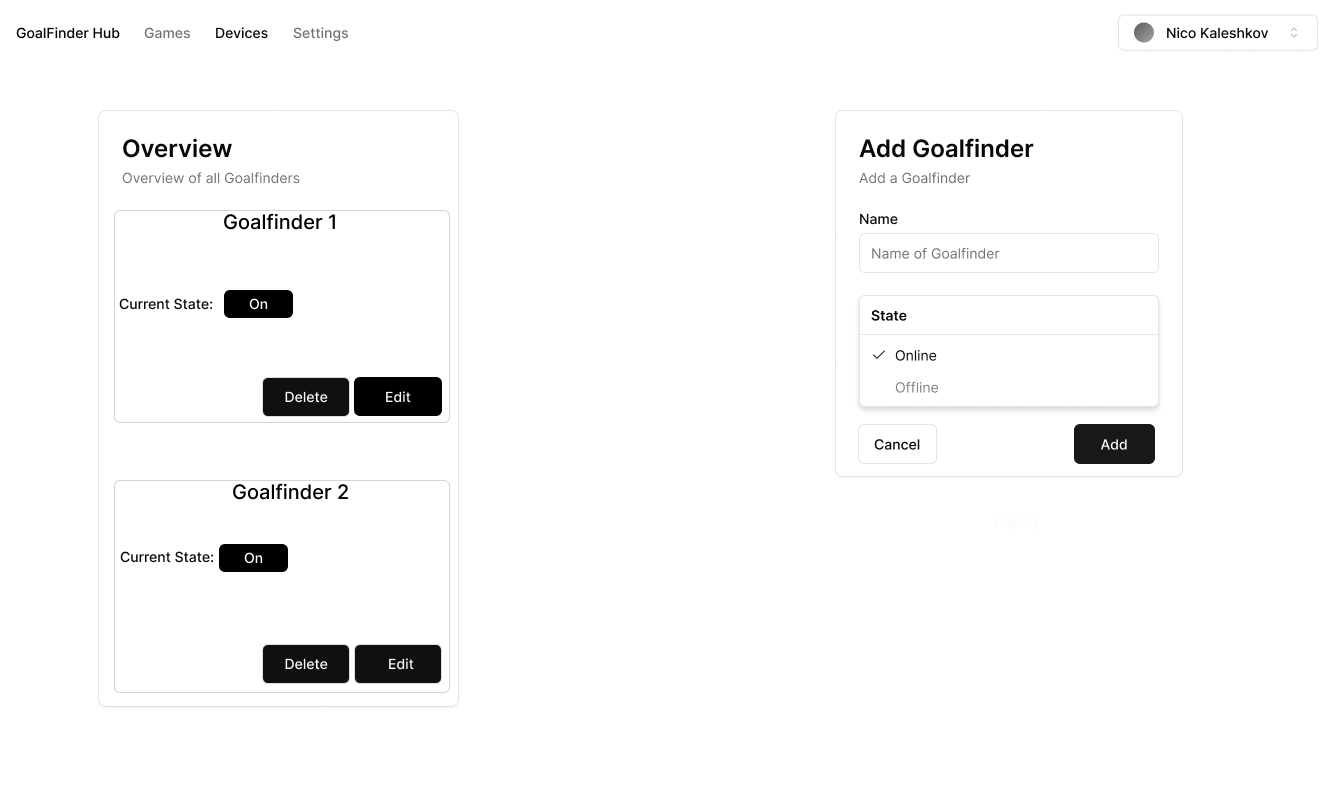
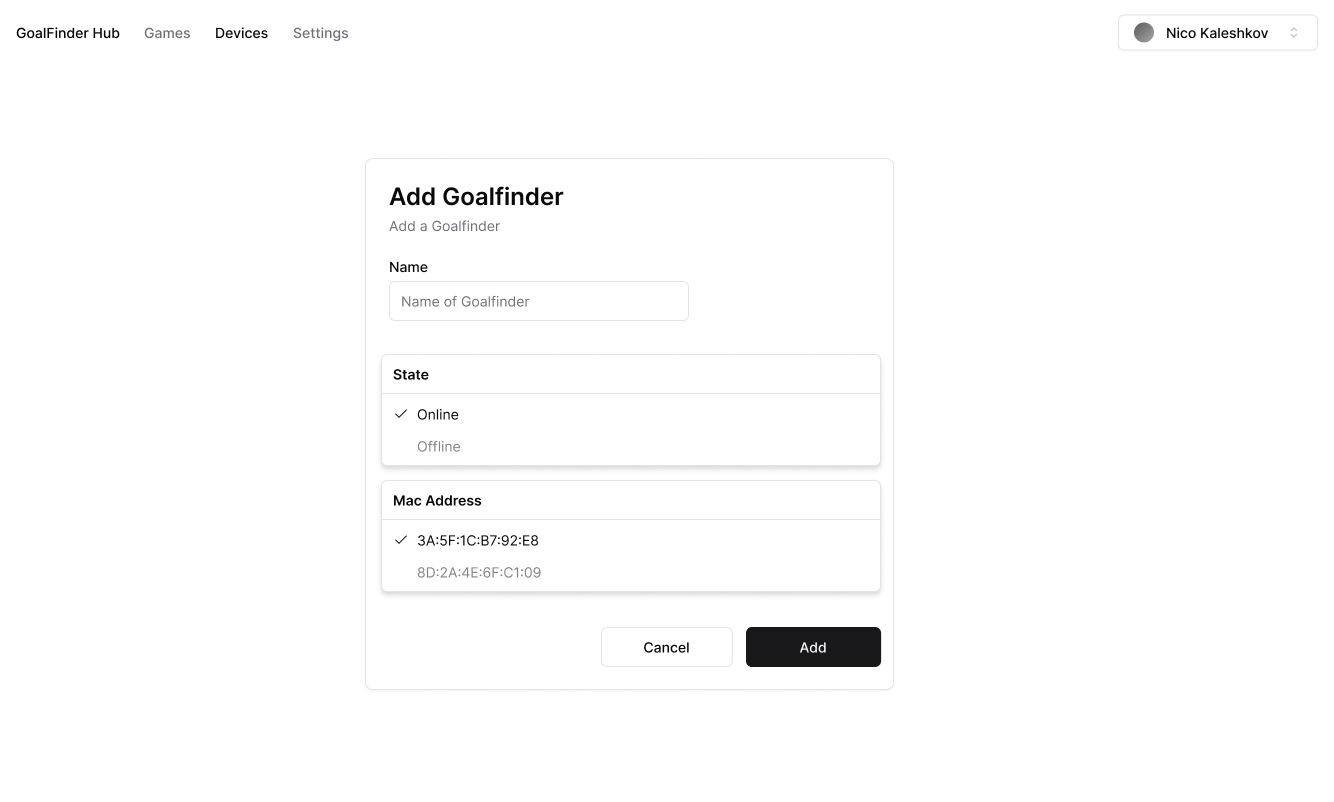
Finished figma

diff --git a/README.md b/README.md
@@ -102,7 +102,7 @@ Der GoalFinder Hub basiert auf einem Raspberry Pi und bietet die Funktionalität
 ### 3.2. Übersicht der Goalfinder
 
 #### 3.2.1 GUI-Design
-<img src="docs/img/Devices.png" alt="devices">
+<img src="docs/img/Devices Goalfinder Overview.png" alt="devices">
 
 #### 3.2.2 Workflow
 Hierfür wird man eine Sammlung an Goalfinders brauchen. Jeder Goalfinder muss aufgelistet werden, mit dem entsprechenden Status. Dazu wird man die Sammlung durchgehen müssen und auch schauen müssen, ob der Goalfinder ein- oder ausgeschaltet ist.
@@ -124,11 +124,17 @@ Wenn der User auf Einstellungen übernehmen klickt, muss erstmal in den Feldern,
 #### 3.5.1 GUI Design
 <img src="docs/img/Games-Without-current-game.png" alt="game without current game">
 <img src="docs/img/Games-With-current-game.png" alt="game without current game">
-<img src="docs/img/Games-Create-Game.png" alt="game without current game">
+<img src="docs/img/Games - Create Game.png" alt="game without current game">
 
 #### 3.5.2 Workflow
 
 Erstmal wählt der User den Spielmodus aus. Kann dann 1-beliebig viele Teams erstellen und in diese Teams 1-beliebig viele Spieler hinzufügen. Dabei muss überprüft werden,ob der User einen Modus ausgewählt hat, mindestens ein Team erstellt hat und jedem Team mindestens einen Sieler hinzugefügt hat. Außerdem muss man darauf achten, dass der User die Team- und Spielernamen nicht leer ausfüllt. Falls ein Fehler auftritt, soll der User darüber informiert werden, diesen zu korriegieren. Wenn dann alles passt und der User bereit ist, kann er das Match starten, mithilfe des "Match starten" Buttons. Nachdem soll sich eine Seite öffnen, wo alle laufenden Matches angezeigt werden. Dies könnte man mithilfe von Klassen abbilden. Falls der User dann das jeweilige Match beenden will, kann er auf den "Match beenden" Button klicken. Danach soll sich wieder eine neue Seite öffnen, wo dann die Rangliste des jeweiligen Spiels angezeigt wird. Die Rangliste bildet sich im Körbezähler-Modus aus der Differenz der Treffer und Fehltreffer, im Team vs Team Modus aus Treffern. Falls der User möchte, kann er die Rangliste speichern.
+
+<img src="docs/img/Frame 2.png" alt="game without current game">
+<img src="docs/img/Frame 4.png" alt="game without current game">
+<img src="docs/img/Frame 5.png" alt="game without current game">
+<img src="docs/img/Frame 7.png" alt="game without current game">
+
 
 ## 4. Nicht-funktionale Anforderungen
 
